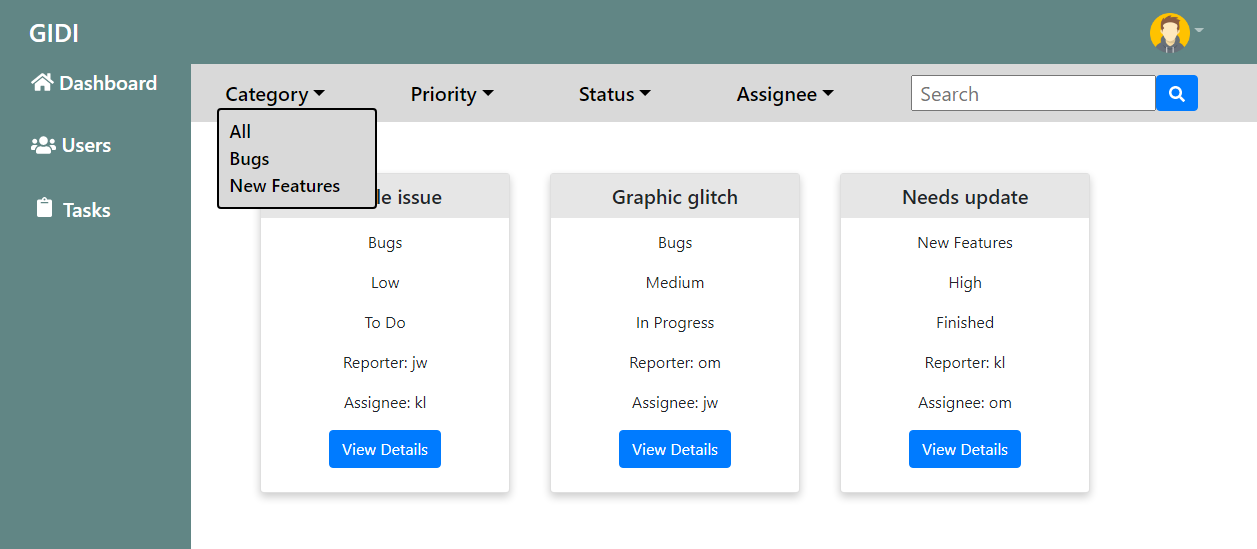
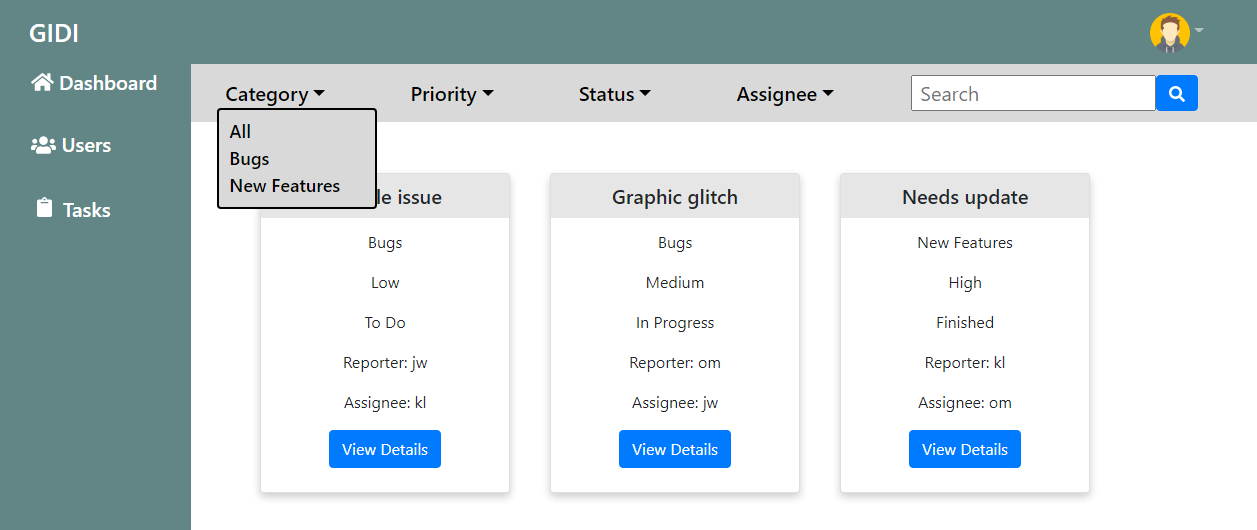
fixed text display project title and project tech, provided a better resized photo, minor changes

diff --git a/index.html b/index.html
@@ -266,25 +266,23 @@
             aria-hidden="true">
             <div class="modal-dialog modal-lg modal-dialog-centered">
               <div class="modal-content">
-                <!-- <img class="project-modal-image" src="portfolio/img/projects/fullpictures/fullpicture-gidi.PNG"
-                  alt="portfolio image"> -->
 
-                  <div class="slideshow-container">
-                    <div class="mySlides1">
-                      <img src="portfolio/img/projects/fullpictures/fullpicture-gidi-1.PNG" class="project-modal-image">
-                    </div>
-                  
-                    <div class="mySlides1">
-                      <img src="portfolio/img/projects/fullpictures/fullpicture-gidi-2.PNG" class="project-modal-image">
-                    </div>
-
-                    <div class="mySlides1">
-                      <img src="portfolio/img/projects/fullpictures/fullpicture-gidi-3.PNG" class="project-modal-image">
-                    </div>
-                  
-                    <a class="prev" onclick="plusSlides(-1, 0)">&#10094;</a>
-                    <a class="next" onclick="plusSlides(1, 0)">&#10095;</a>
+                <div class="slideshow-container">
+                  <div class="mySlides1">
+                    <img class="project-modal-image" src="portfolio/img/projects/fullpictures/fullpicture-gidi-1.PNG">
                   </div>
+
+                  <div class="mySlides1">
+                    <img class="project-modal-image" src="portfolio/img/projects/fullpictures/fullpicture-gidi-2.PNG">
+                  </div>
+
+                  <div class="mySlides1">
+                    <img class="project-modal-image" src="portfolio/img/projects/fullpictures/fullpicture-gidi-3.PNG">
+                  </div>
+
+                  <a class="prev" onclick="plusSlides(-1, 0)">&#10094;</a>
+                  <a class="next" onclick="plusSlides(1, 0)">&#10095;</a>
+                </div>
 
                 <br></br>
                 <div class="project-modal-information">
@@ -397,7 +395,7 @@
 
           <div class="project-container">
             <div class="project-title">Kanban Board</div>
-            <div class="project-technology" style="position: relative; right: 25px">JavaScript</div>
+            <div class="project-technology">JavaScript</div>
           </div>
 
           <button type="button" class="learn-more-button" data-toggle="modal" data-target=".bd-fourth-modal-lg">
@@ -441,7 +439,7 @@
 
           <div class="project-container">
             <div class="project-title">Git It Done</div>
-            <div class="project-technology" style="position: relative; right: 25px">JavaScript</div>
+            <div class="project-technology">JavaScript</div>
           </div>
 
           <button type="button" class="learn-more-button" data-toggle="modal" data-target=".bd-fifth-modal-lg">
@@ -482,7 +480,7 @@
 
           <div class="project-container">
             <div class="project-title">Weather App</div>
-            <div class="project-technology" style="position: relative; right: 25px">JavaScript</div>
+            <div class="project-technology">JavaScript</div>
           </div>
 
           <button type="button" class="learn-more-button" data-toggle="modal" data-target=".bd-sixth-modal-lg">

diff --git a/portfolio/styles/style.css b/portfolio/styles/style.css
@@ -351,15 +351,9 @@ body {
 }
 
 .project-container {
-  width: 50%;
-  transition: .5s ease;
-  opacity: 0;
   position: relative;
   bottom: 200px;
-  left: 50%;
-  transform: translate(-50%, -50%);
-  -ms-transform: translate(-50%, -50%);
-  text-align: center;
+  opacity: 0;
 }
 
 .project-title {
@@ -377,7 +371,7 @@ body {
 }
 
 .grid-item-project:hover .project-image {
-  opacity: 0.1;
+  opacity: 0.05;
 }
 
 .grid-item-project:hover .project-container {
@@ -395,6 +389,7 @@ body {
   font-size: 17px;
   white-space: nowrap;
   color: var(--navy);
+  transition: 0.3s;
 }
 
 .learn-more-button:focus {
@@ -445,15 +440,15 @@ body {
   position: absolute;
   bottom: 2px;
   width: auto;
-  padding: 16px;
+  padding: 15px 25px;
   margin-top: -22px;
-  color: white;
   font-weight: bold;
   font-size: 18px;
   transition: 0.6s ease;
   border-radius: 0 3px 3px 0;
   user-select: none;
-  color: black;
+  background-color: rgba(0, 0, 0, 0.6);
+  color: white;
 }
 
 /* Position the "prev button" to the right */
@@ -470,8 +465,8 @@ body {
 
 /* On hover, add a grey background color */
 .prev:hover, .next:hover {
-  background-color: #f1f1f1;
-  color: black;
+  text-decoration: none;
+  color: white;
 }
 
 .project-modal-information {
